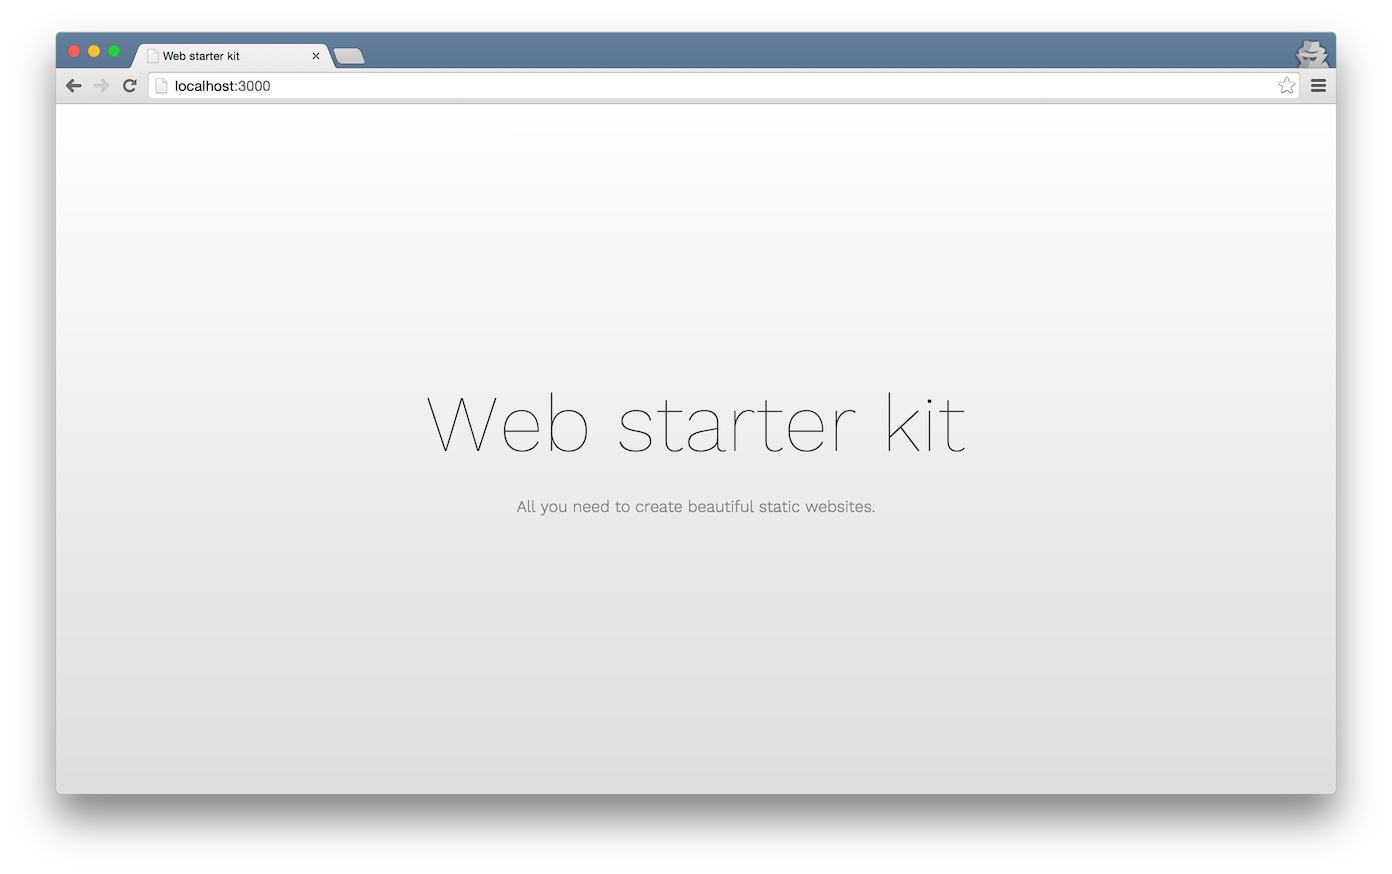
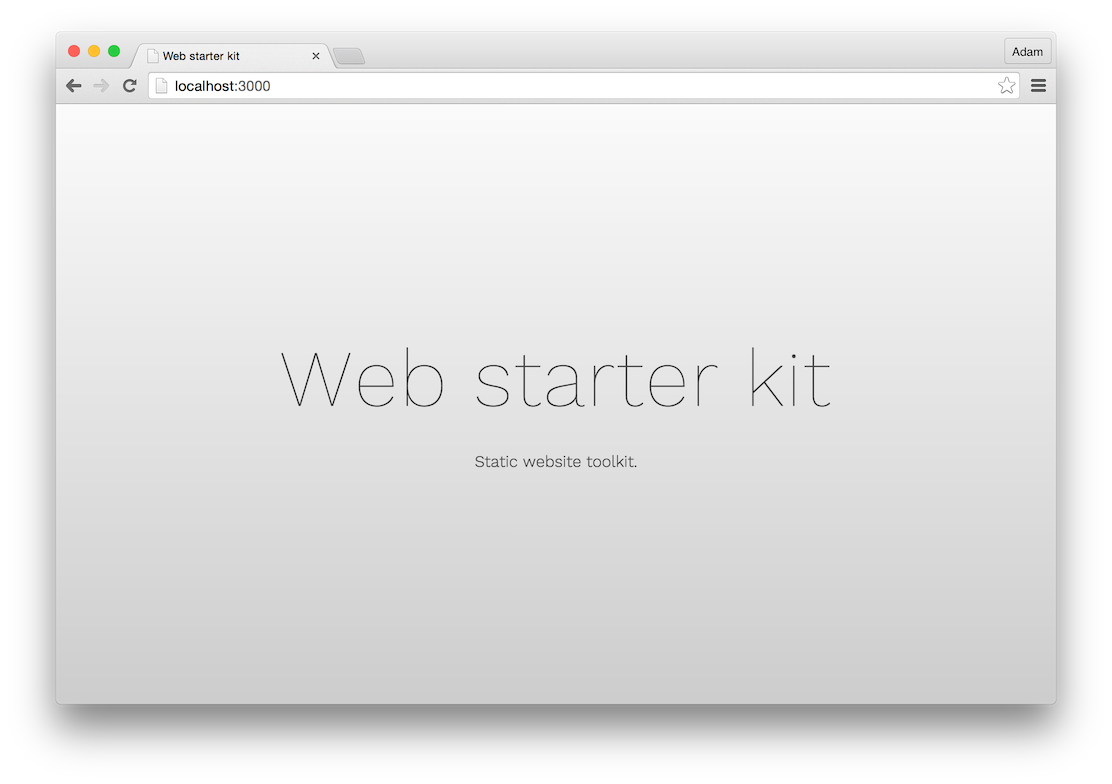
Add jQuery

diff --git a/public/assets/style.css b/public/assets/style.css
@@ -1,3 +1,3 @@
-html,body{height:100%;margin:0;padding:0}.container{height:100%;display:-webkit-flex;display:-ms-flexbox;display:flex;-webkit-justify-content:center;-ms-flex-pack:center;justify-content:center;-webkit-align-items:center;-ms-flex-align:center;align-items:center;-webkit-flex-direction:column;-ms-flex-direction:column;flex-direction:column;-webkit-flex-wrap:wrap;-ms-flex-wrap:wrap;flex-wrap:wrap;background:linear-gradient(#fff, #ddd)}.container h1,.container p{font-family:'Work Sans', sans-serif}.container h1{font-size:5rem;margin:0.7rem 0;letter-spacing:0.1rem;font-weight:100;color:#333}.container p{font-size:1rem;color:#777;font-weight:300}
+html{font-family:sans-serif;-ms-text-size-adjust:100%;-webkit-text-size-adjust:100%}body{margin:0}article,aside,details,figcaption,figure,footer,header,hgroup,main,menu,nav,section,summary{display:block}audio,canvas,progress,video{display:inline-block;vertical-align:baseline}audio:not([controls]){display:none;height:0}[hidden],template{display:none}a{background-color:transparent}a:active,a:hover{outline:0}abbr[title]{border-bottom:1px dotted}b,strong{font-weight:bold}dfn{font-style:italic}h1{font-size:2em;margin:0.67em 0}mark{background:#ff0;color:#000}small{font-size:80%}sub,sup{font-size:75%;line-height:0;position:relative;vertical-align:baseline}sup{top:-0.5em}sub{bottom:-0.25em}img{border:0}svg:not(:root){overflow:hidden}figure{margin:1em 40px}hr{box-sizing:content-box;height:0}pre{overflow:auto}code,kbd,pre,samp{font-family:monospace, monospace;font-size:1em}button,input,optgroup,select,textarea{color:inherit;font:inherit;margin:0}button{overflow:visible}button,select{text-transform:none}button,html input[type="button"],input[type="reset"],input[type="submit"]{-webkit-appearance:button;cursor:pointer}button[disabled],html input[disabled]{cursor:default}button::-moz-focus-inner,input::-moz-focus-inner{border:0;padding:0}input{line-height:normal}input[type="checkbox"],input[type="radio"]{box-sizing:border-box;padding:0}input[type="number"]::-webkit-inner-spin-button,input[type="number"]::-webkit-outer-spin-button{height:auto}input[type="search"]{-webkit-appearance:textfield;box-sizing:content-box}input[type="search"]::-webkit-search-cancel-button,input[type="search"]::-webkit-search-decoration{-webkit-appearance:none}fieldset{border:1px solid #c0c0c0;margin:0 2px;padding:0.35em 0.625em 0.75em}legend{border:0;padding:0}textarea{overflow:auto}optgroup{font-weight:bold}table{border-collapse:collapse;border-spacing:0}td,th{padding:0}html,body{height:100%;margin:0;padding:0}.container{height:100%;display:-webkit-flex;display:-ms-flexbox;display:flex;-webkit-justify-content:center;-ms-flex-pack:center;justify-content:center;-webkit-align-items:center;-ms-flex-align:center;align-items:center;-webkit-flex-direction:column;-ms-flex-direction:column;flex-direction:column;-webkit-flex-wrap:wrap;-ms-flex-wrap:wrap;flex-wrap:wrap;background:-webkit-linear-gradient(top, #fbfbfb, #cdcdcd)}.container h1,.container p{font-family:'Work Sans', sans-serif}.container h1{font-size:5rem;margin:0.7rem 0;letter-spacing:0.15rem;font-weight:100;color:#444}.container p{font-size:1rem;color:#444;font-weight:300}.container .smaller{margin-bottom:20px;font-size:0.9em;font-family:'Work Sans', sans-serif;color:#444}
 
[2 lines of base64/hex data omitted]

diff --git a/public/index.html b/public/index.html
@@ -2,6 +2,8 @@
 <html lang="en-us">
   <head>
     <meta charset="UTF-8">
+    <meta name="viewport" content="width=device-width, initial-scale=1">
+    <meta http-equiv="x-ua-compatible" content="ie=edge">
     <title>Web starter kit</title>
     <link rel="stylesheet" type="text/css" href="assets/style.css">
     <link href="https://fonts.googleapis.com/css?family=Work+Sans:100,300" rel="stylesheet" type="text/css">
@@ -9,8 +11,10 @@
   <body>
     <div class="container">
       <h1>Web starter kit</h1>
-      <p>All you need to create beautiful static websites.</p>
+      <p>Static website toolkit.</p>
     </div>
+    <script src="https://ajax.googleapis.com/ajax/libs/jquery/1.11.3/jquery.min.js"></script>
+    <script>window.jQuery || document.write('<script src="assets/vendor/jquery-1.11.3.min.js"><\/script>');</script>
     <script src="assets/app.js"></script>
     <script>document.write("<script async src='http://HOST:3000/browser-sync/browser-sync-client.2.9.11.js'><\/script>".replace("HOST", location.hostname));</script>
   </body>
